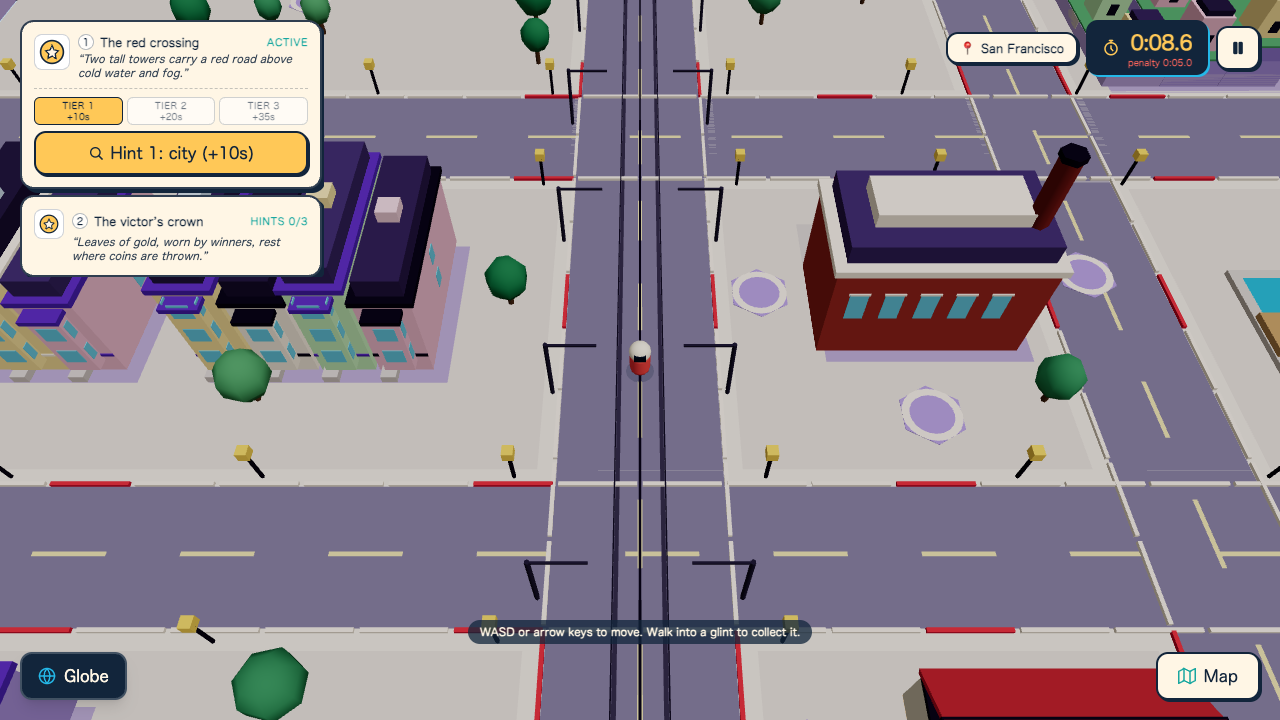
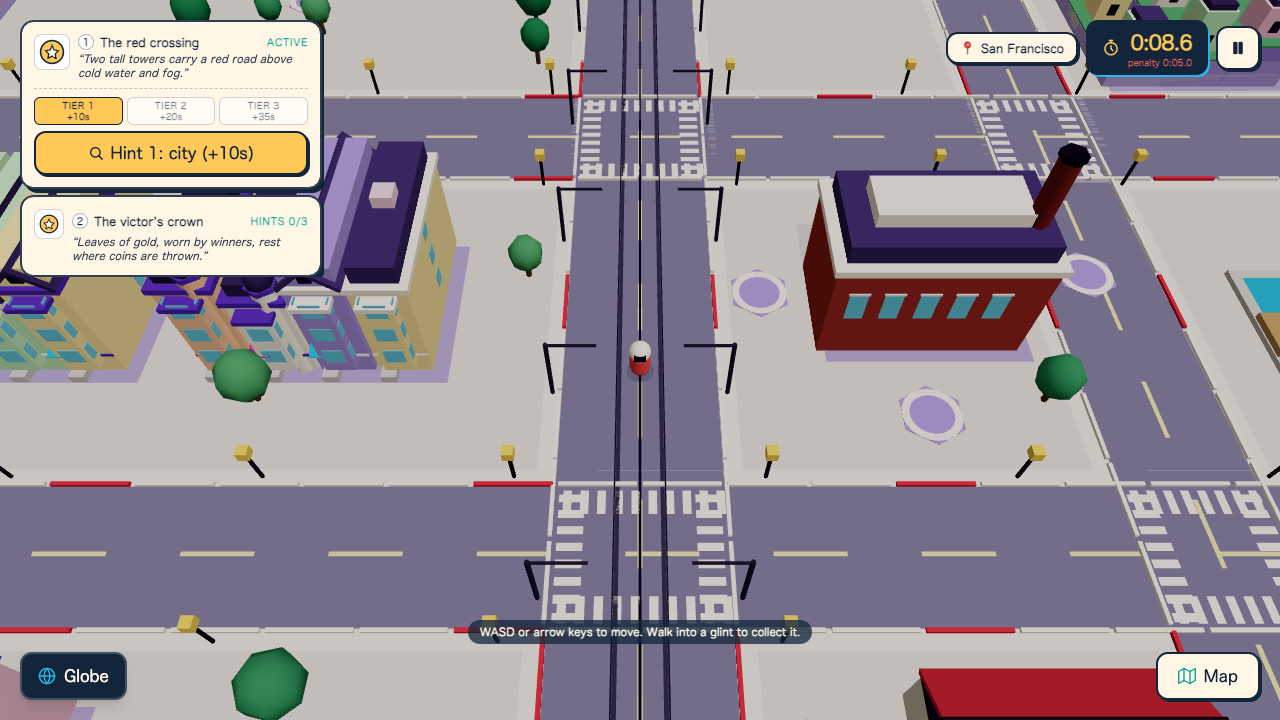
A9: SF polish — E-W Golden Gate in frame, local haze, Victorian variety, crossings

diff --git a/src/cities/san-francisco/SanFranciscoScene.tsx b/src/cities/san-francisco/SanFranciscoScene.tsx
@@ -60,7 +60,10 @@ const CURB_WHITE = CREAM;
 const WATER_TONE = '#35b9dd';
 const WATER_DEEP_TONE = '#2593b8';
 const FOAM_TONE = '#c8f2fb';
-const HAZE_TONE = '#d9cdf2';
+const HAZE_TONE = '#dcd3f0';
+const HAZE_BANDS = ['#cbbfe8', '#c9cdef', '#c3dcf3', '#bfe4f5'] as const;
+const STRAIT_MIN_Z = -62;
+const STRAIT_MAX_Z = -28;
 const HILL_TONES = ['#c7b4ea', '#b6a1e8', '#a48fdc'] as const;
 const HILL_HOUSE_TONES = ['#f8d7e4', '#fff5e9', '#d7e9fb', '#ffe9b0'] as const;
 const SHADOW_TONE = '#b9a8d6';
@@ -282,6 +285,26 @@ function buildStreets(definition: CityDefinition, quality: Quality, batches: Bat
     }
   }
 
+  // Zebra crossings where roads meet.
+  if (quality !== 'low') {
+    for (const a of roads) {
+      if (width(a) < depth(a)) continue;
+      for (const b of roads) {
+        if (width(b) >= depth(b)) continue;
+        for (const edgeZ of [a.minZ, a.maxZ]) {
+          for (let x = b.minX + 0.6; x < b.maxX - 0.4; x += 1.2) {
+            batches.flats.push({ x: x + 0.3, y: 0.032, z: edgeZ + (edgeZ === a.minZ ? 1.2 : -1.2), sx: 0.6, sy: 1.8, sz: 1, rx: FLAT, color: CREAM });
+          }
+        }
+        for (const edgeX of [b.minX, b.maxX]) {
+          for (let z = a.minZ + 0.6; z < a.maxZ - 0.4; z += 1.2) {
+            batches.flats.push({ x: edgeX + (edgeX === b.minX ? 1.2 : -1.2), y: 0.032, z: z + 0.3, sx: 1.8, sy: 0.6, sz: 1, rx: FLAT, color: CREAM });
+          }
+        }
+      }
+    }
+  }
+
   // Cable-car tracks + overhead trolley wires along the main N-S street (the one through spawn).
   const mainStreet = roads.find((road) => depth(road) > width(road) && road.minX <= 0 && road.maxX >= 0);
   if (!mainStreet) return;
@@ -343,22 +366,27 @@ function buildBackground(definition: CityDefinition, rng: Rng, quality: Quality,
   });
 
   // Stepped residential hills west and south of the playable blocks (background only, outside bounds).
+  // The strait (STRAIT_MIN_Z..STRAIT_MAX_Z) stays open water so the Golden Gate can cross it westward.
   const tiers = [
-    { rect: { minX: -FAR, maxX: bounds.minX - 0.5, minZ: -FAR * 0.5, maxZ: FAR }, h: 3 },
-    { rect: { minX: -FAR, maxX: bounds.minX - 14, minZ: -FAR * 0.5 + 10, maxZ: FAR }, h: 7 },
-    { rect: { minX: -FAR, maxX: bounds.minX - 30, minZ: -FAR * 0.5 + 20, maxZ: FAR }, h: 12 },
+    { rect: { minX: -FAR, maxX: bounds.minX - 0.5, minZ: STRAIT_MAX_Z, maxZ: FAR }, h: 3 },
+    { rect: { minX: -FAR, maxX: bounds.minX - 14, minZ: STRAIT_MAX_Z + 8, maxZ: FAR }, h: 7 },
+    { rect: { minX: -FAR, maxX: bounds.minX - 30, minZ: STRAIT_MAX_Z + 18, maxZ: FAR }, h: 12 },
+    { rect: { minX: -FAR, maxX: bounds.minX - 0.5, minZ: -FAR, maxZ: STRAIT_MIN_Z }, h: 4 },
+    { rect: { minX: -FAR, maxX: bounds.minX - 24, minZ: -FAR, maxZ: STRAIT_MIN_Z - 6 }, h: 9 },
+    { rect: { minX: -FAR, maxX: bounds.minX - 50, minZ: -FAR, maxZ: STRAIT_MIN_Z - 14 }, h: 15 },
     { rect: { minX: bounds.minX - 0.5, maxX: bounds.maxX + 0.5, minZ: bounds.maxZ + 0.5, maxZ: FAR }, h: 3 },
     { rect: { minX: bounds.minX - 0.5, maxX: bounds.maxX + 0.5, minZ: bounds.maxZ + 14, maxZ: FAR }, h: 7 },
     { rect: { minX: bounds.minX - 0.5, maxX: bounds.maxX + 0.5, minZ: bounds.maxZ + 32, maxZ: FAR }, h: 12 },
   ];
   tiers.forEach((tier, index) => batches.boxes.push(boxItem(tier.rect, -0.3, tier.h, HILL_TONES[index % 3]!)));
+  batches.flats.push(flatItem({ minX: -FAR, maxX: bounds.minX, minZ: STRAIT_MIN_Z, maxZ: STRAIT_MAX_Z }, -0.3, WATER_TONE));
 
   // Tiny pastel houses climbing the hills, plus stepped streets between them.
   const houseCount = quality === 'low' ? 30 : 90;
   for (let index = 0; index < houseCount; index += 1) {
     const west = rng.next() < 0.55;
     const x = west ? bounds.minX - 3 - rng.next() * 40 : bounds.minX + rng.next() * width(bounds);
-    const z = west ? -60 + rng.next() * 130 : bounds.maxZ + 3 + rng.next() * 42;
+    const z = west ? STRAIT_MAX_Z + 4 + rng.next() * 110 : bounds.maxZ + 3 + rng.next() * 42;
     const tierHeight = west
       ? x < bounds.minX - 30 ? 12 : x < bounds.minX - 14 ? 7 : 3
       : z > bounds.maxZ + 32 ? 12 : z > bounds.maxZ + 14 ? 7 : 3;
@@ -367,101 +395,108 @@ function buildBackground(definition: CityDefinition, rng: Rng, quality: Quality,
     batches.boxes.push({ x, y: tierHeight - 0.3 + h / 2, z, sx: w, sy: h, sz: w, color: rng.pick(HILL_HOUSE_TONES) });
     batches.boxes.push({ x, y: tierHeight - 0.3 + h + 0.35, z, sx: w * 0.8, sy: 0.7, sz: w * 0.8, color: rng.pick(ROOF_TONES) });
   }
-  for (let z = -50; z < 120; z += 24) {
+  for (let z = STRAIT_MAX_Z + 14; z < 120; z += 24) {
     batches.boxes.push({ x: bounds.minX - 22, y: 4, z, sx: 44, sy: 8.5, sz: 3, color: DECK_TONE });
   }
 
-  // Restrained haze band on the horizon so the bay fades out instead of ending hard.
-  batches.boxes.push({ x: 0, y: 6, z: -FAR + 20, sx: FAR * 2.2, sy: 14, sz: 2, color: HAZE_TONE });
-  batches.boxes.push({ x: FAR - 20, y: 6, z: 0, sx: 2, sy: 14, sz: FAR * 2.2, color: HAZE_TONE });
+  // Restrained local haze: opaque bands stepping from lavender toward the sky colour, so the bay,
+  // the strait and the far bridge anchorage fade out without touching the scene's fog settings.
+  HAZE_BANDS.forEach((tone, index) => {
+    const y = 3 + index * 4;
+    batches.boxes.push({ x: 0, y, z: -FAR + 20 + index * 6, sx: FAR * 2.2, sy: 8, sz: 1, color: tone });
+    batches.boxes.push({ x: FAR - 20 - index * 6, y, z: 0, sx: 1, sy: 8, sz: FAR * 2.2, color: tone });
+    batches.boxes.push({ x: -FAR + 25 + index * 6, y, z: centerZ({ minX: 0, maxX: 0, minZ: STRAIT_MIN_Z, maxZ: STRAIT_MAX_Z }), sx: 1, sy: 8, sz: 70, color: tone });
+  });
+  // Low water mist drifting through the strait under the bridge deck.
+  for (let x = bounds.minX - 6; x > -FAR + 40; x -= 22) {
+    batches.boxes.push({ x, y: 1.2, z: STRAIT_MIN_Z + 6 + ((x * 7) % 20 + 20) % 20, sx: 16, sy: 1.6, sz: 5, color: HAZE_TONE });
+  }
 }
 
 // ---------------------------------------------------------------------------
-// Golden Gate Bridge (hero). South tower stands on the approach blocker; the deck and north tower
-// run out over the bay north of the playable bounds (z < -72), where nobody can walk.
+// Golden Gate Bridge (hero). The chase camera pitches ~55 degrees down with a 48 degree FOV, so a
+// tall tower directly ahead leaves the frame: anything at height h is only visible while it is
+// closer than ~(52 - h) * 1.66 units ahead of the player. The bridge therefore runs EAST-WEST along
+// the approach blocker and out over the strait west of the bounds, with squat 22-unit towers, so
+// from anywhere in the bridge district at least one tower and the cables stay on screen.
 // ---------------------------------------------------------------------------
 
-const TOWER_HEIGHT = 46;
-const DECK_Y = 9;
-const DECK_HALF_WIDTH = 5;
-const NORTH_TOWER_Z = -104;
-const DECK_END_Z = -160;
+const TOWER_HEIGHT = 22;
+const DECK_Y = 6;
+const DECK_HALF_DEPTH = 4.5;
+const WEST_TOWER_X = -78;
+const DECK_END_X = -132;
 
 function buildGoldenGate(approach: Blocker, quality: Quality, batches: Batches): void {
-  const cx = centerX(approach);
-  const southTowerZ = centerZ(approach) - 3;
+  const cz = centerZ(approach);
+  const eastTowerX = approach.minX + 12;
 
-  // Approach: concrete plinth covering the whole blocker, toll-plaza kiosks and a ramp to deck height.
+  // Approach plaza: concrete plinth on the blocker, toll kiosks, cypresses; the deck ramps up onto it.
   batches.flats.push(shadowItem(approach));
   batches.boxes.push(boxItem(approach, 0, 1.2, CONCRETE_TONE));
   batches.boxes.push(boxItem(grow(approach, -0.6), 1.2, 0.3, LAVENDER));
-  const rampRect: RectXZ = { minX: cx - DECK_HALF_WIDTH - 1, maxX: cx + DECK_HALF_WIDTH + 1, minZ: approach.minZ, maxZ: approach.maxZ - 1 };
-  batches.boxes.push(boxItem(rampRect, 1.2, DECK_Y - 1.4, DECK_TONE));
-  batches.boxes.push(boxItem(grow(rampRect, 0.3), DECK_Y - 0.5, 0.5, ORANGE));
+  const ramp: RectXZ = { minX: approach.minX, maxX: approach.maxX - 1, minZ: cz - DECK_HALF_DEPTH - 1, maxZ: cz + DECK_HALF_DEPTH + 1 };
+  batches.boxes.push(boxItem(ramp, 1.2, DECK_Y - 1.4, DECK_TONE));
+  batches.boxes.push(boxItem(grow(ramp, 0.3), DECK_Y - 0.5, 0.5, ORANGE));
   for (const side of [-1, 1] as const) {
-    const x = cx + side * (DECK_HALF_WIDTH + 4.5);
-    batches.boxes.push({ x, y: 2.9, z: approach.maxZ - 5, sx: 3, sy: 3.4, sz: 3, color: CREAM });
-    batches.boxes.push({ x, y: 4.9, z: approach.maxZ - 5, sx: 4, sy: 0.6, sz: 4, color: ORANGE });
-    // Cypress trees flanking the plaza.
-    for (const z of [approach.minZ + 4, approach.minZ + 10, approach.maxZ - 12]) {
-      batches.cylinders.push({ x: x + side * 3.5, y: 2.2, z, sx: 0.6, sy: 2, sz: 0.6, color: TRUNK_TONE });
-      batches.spheres.push({ x: x + side * 3.5, y: 4.6, z, sx: 1.4, sy: 2.6, sz: 1.4, color: LEAF_TONES[1] });
+    const z = cz + side * (DECK_HALF_DEPTH + 4.5);
+    batches.boxes.push({ x: approach.maxX - 6, y: 2.9, z, sx: 3, sy: 3.4, sz: 3, color: CREAM });
+    batches.boxes.push({ x: approach.maxX - 6, y: 4.9, z, sx: 4, sy: 0.6, sz: 4, color: ORANGE });
+    for (const x of [approach.minX + 4, approach.maxX - 14, approach.maxX - 2.5]) {
+      batches.cylinders.push({ x, y: 2.2, z: z + side * 3, sx: 0.6, sy: 2, sz: 0.6, color: TRUNK_TONE });
+      batches.spheres.push({ x, y: 4.6, z: z + side * 3, sx: 1.4, sy: 2.6, sz: 1.4, color: LEAF_TONES[1] });
     }
   }
 
-  // Deck.
-  const deckLength = approach.minZ - DECK_END_Z;
-  const deckZ = (approach.minZ + DECK_END_Z) / 2;
-  batches.boxes.push({ x: cx, y: DECK_Y - 0.6, z: deckZ, sx: DECK_HALF_WIDTH * 2 + 1, sy: 1.2, sz: deckLength, color: DECK_TONE });
-  batches.boxes.push({ x: cx, y: DECK_Y - 1.7, z: deckZ, sx: DECK_HALF_WIDTH * 2 - 1, sy: 1.2, sz: deckLength, color: ORANGE_DARK });
+  // Deck over the strait, from the plaza edge west to the far anchorage.
+  const deckLength = approach.minX - DECK_END_X;
+  const deckX = (approach.minX + DECK_END_X) / 2;
+  batches.boxes.push({ x: deckX, y: DECK_Y - 0.6, z: cz, sx: deckLength, sy: 1.2, sz: DECK_HALF_DEPTH * 2 + 1, color: DECK_TONE });
+  batches.boxes.push({ x: deckX, y: DECK_Y - 1.7, z: cz, sx: deckLength, sy: 1.2, sz: DECK_HALF_DEPTH * 2 - 1, color: ORANGE_DARK });
   for (const side of [-1, 1] as const) {
-    batches.boxes.push({ x: cx + side * (DECK_HALF_WIDTH + 0.3), y: DECK_Y + 0.5, z: deckZ, sx: 0.4, sy: 1.0, sz: deckLength, color: ORANGE });
+    batches.boxes.push({ x: deckX, y: DECK_Y + 0.5, z: cz + side * (DECK_HALF_DEPTH + 0.3), sx: deckLength, sy: 1.0, sz: 0.4, color: ORANGE });
   }
   if (quality !== 'low') {
-    for (let z = approach.minZ - 6; z > DECK_END_Z; z -= 12) {
-      batches.flats.push({ x: cx, y: DECK_Y + 0.02, z, sx: 0.4, sy: 6, sz: 1, rx: FLAT, color: ROAD_LINE_TONE });
+    for (let x = approach.minX - 4; x > DECK_END_X; x -= 8) {
+      batches.flats.push({ x, y: DECK_Y + 0.02, z: cz, sx: 4, sy: 0.4, sz: 1, rx: FLAT, color: ROAD_LINE_TONE });
     }
   }
+  // Far anchorage block on the Marin side.
+  batches.boxes.push({ x: DECK_END_X - 4, y: DECK_Y / 2 - 0.3, z: cz, sx: 10, sy: DECK_Y + 0.3, sz: DECK_HALF_DEPTH * 2 + 6, color: CONCRETE_TONE });
 
-  // Towers: two legs joined by portal braces, on a pier block in the water.
-  for (const towerZ of [southTowerZ, NORTH_TOWER_Z]) {
-    const baseY = towerZ === southTowerZ ? 1.2 : -0.3;
-    if (towerZ !== southTowerZ) {
-      batches.boxes.push({ x: cx, y: 1.5, z: towerZ, sx: DECK_HALF_WIDTH * 2 + 8, sy: 4, sz: 12, color: CONCRETE_TONE });
-    }
+  // Towers: two legs (one each side of the deck) joined by portal braces.
+  for (const towerX of [eastTowerX, WEST_TOWER_X]) {
+    const onPlaza = towerX === eastTowerX;
+    const baseY = onPlaza ? 1.2 : -0.3;
+    if (!onPlaza) batches.boxes.push({ x: towerX, y: 1.5, z: cz, sx: 12, sy: 4, sz: DECK_HALF_DEPTH * 2 + 8, color: CONCRETE_TONE });
     for (const side of [-1, 1] as const) {
-      const x = cx + side * (DECK_HALF_WIDTH + 0.6);
-      batches.boxes.push({ x, y: baseY + TOWER_HEIGHT / 2, z: towerZ, sx: 2.6, sy: TOWER_HEIGHT, sz: 3.2, color: ORANGE });
-      batches.boxes.push({ x: x + side * 0.2, y: baseY + TOWER_HEIGHT / 2, z: towerZ, sx: 2.2, sy: TOWER_HEIGHT - 2, sz: 3.6, color: ORANGE_DARK });
-      batches.boxes.push({ x, y: baseY + TOWER_HEIGHT + 0.6, z: towerZ, sx: 3.2, sy: 1.2, sz: 3.8, color: ORANGE });
+      const z = cz + side * (DECK_HALF_DEPTH + 0.6);
+      batches.boxes.push({ x: towerX, y: baseY + TOWER_HEIGHT / 2, z, sx: 3.2, sy: TOWER_HEIGHT, sz: 2.6, color: ORANGE });
+      batches.boxes.push({ x: towerX, y: baseY + TOWER_HEIGHT / 2, z: z + side * 0.2, sx: 3.6, sy: TOWER_HEIGHT - 2, sz: 2.2, color: ORANGE_DARK });
+      batches.boxes.push({ x: towerX, y: baseY + TOWER_HEIGHT + 0.6, z, sx: 3.8, sy: 1.2, sz: 3.2, color: ORANGE });
     }
-    const braceYs = [DECK_Y + 6, DECK_Y + 16, DECK_Y + 26, TOWER_HEIGHT - 2];
-    for (const y of braceYs) {
-      batches.boxes.push({ x: cx, y: baseY + y, z: towerZ, sx: DECK_HALF_WIDTH * 2 + 1, sy: 2.4, sz: 3.4, color: ORANGE });
-      if (quality !== 'low') {
-        batches.boxes.push({ x: cx, y: baseY + y, z: towerZ + 1.75, sx: DECK_HALF_WIDTH * 2 + 1, sy: 1.2, sz: 0.2, color: ORANGE_DARK });
-      }
+    for (const y of [DECK_Y + 4.5, DECK_Y + 10, TOWER_HEIGHT - 1.5]) {
+      batches.boxes.push({ x: towerX, y: baseY + y, z: cz, sx: 3.4, sy: 2.2, sz: DECK_HALF_DEPTH * 2 + 1, color: ORANGE });
+      if (quality !== 'low') batches.boxes.push({ x: towerX + 1.75, y: baseY + y, z: cz, sx: 0.2, sy: 1.1, sz: DECK_HALF_DEPTH * 2 + 1, color: ORANGE_DARK });
     }
-    batches.boxes.push({ x: cx, y: baseY + 3, z: towerZ, sx: DECK_HALF_WIDTH * 2 + 1, sy: 6, sz: 3.4, color: ORANGE });
+    batches.boxes.push({ x: towerX, y: baseY + 2.5, z: cz, sx: 3.4, sy: 5, sz: DECK_HALF_DEPTH * 2 + 1, color: ORANGE });
   }
 
-  // Main cables: catenary from the south anchorage, over both towers, down to the far anchorage.
-  const anchorSouth: [number, number] = [approach.maxZ - 2, DECK_Y];
-  const anchorNorth: [number, number] = [DECK_END_Z + 6, DECK_Y];
-  const topY = TOWER_HEIGHT + 0.2;
-  const spans: { z0: number; y0: number; z1: number; y1: number; sag: number }[] = [
-    { z0: anchorSouth[0], y0: anchorSouth[1], z1: southTowerZ, y1: topY + 1.2, sag: 0 },
-    { z0: southTowerZ, y0: topY + 1.2, z1: NORTH_TOWER_Z, y1: topY - 0.3, sag: 26 },
-    { z0: NORTH_TOWER_Z, y0: topY - 0.3, z1: anchorNorth[0], y1: anchorNorth[1], sag: 0 },
+  // Main cables: from the plaza anchorage over both towers to the Marin anchorage.
+  const topY = TOWER_HEIGHT + 0.4;
+  const spans: { x0: number; y0: number; x1: number; y1: number; sag: number }[] = [
+    { x0: approach.maxX - 3, y0: DECK_Y, x1: eastTowerX, y1: topY + 1.2, sag: 0 },
+    { x0: eastTowerX, y0: topY + 1.2, x1: WEST_TOWER_X, y1: topY - 0.3, sag: 11 },
+    { x0: WEST_TOWER_X, y0: topY - 0.3, x1: DECK_END_X - 4, y1: DECK_Y, sag: 0 },
   ];
   const segments = quality === 'low' ? 6 : 12;
   for (const side of [-1, 1] as const) {
-    const x = cx + side * (DECK_HALF_WIDTH + 0.6);
+    const z = cz + side * (DECK_HALF_DEPTH + 0.6);
     for (const span of spans) {
       const points: Vec3[] = [];
       for (let index = 0; index <= segments; index += 1) {
         const t = index / segments;
-        const z = span.z0 + (span.z1 - span.z0) * t;
+        const x = span.x0 + (span.x1 - span.x0) * t;
         const y = span.y0 + (span.y1 - span.y0) * t - span.sag * 4 * t * (1 - t);
         points.push([x, y, z]);
       }
@@ -469,7 +504,6 @@ function buildGoldenGate(approach: Blocker, quality: Quality, batches: Batches):
         batches.boxes.push(strutItem(points[index]!, points[index + 1]!, 0.55, CABLE_TONE));
       }
       if (quality === 'low' || span.sag === 0) continue;
-      // Vertical hangers.
       for (let index = 1; index < points.length - 1; index += 1) {
         const [px, py, pz] = points[index]!;
         batches.boxes.push({ x: px, y: (py + DECK_Y) / 2, z: pz, sx: 0.16, sy: py - DECK_Y, sz: 0.16, color: CABLE_TONE });
@@ -501,8 +535,39 @@ function buildVictorianRow(block: Blocker, rng: Rng, quality: Quality, batches: 
     batches.boxes.push(boxItem(body, 0, height, pastel));
     // Cornice + roof cap (highlighted top face).
     batches.boxes.push(boxItem(grow(body, 0.25), height, 0.5, trim));
-    batches.boxes.push(boxItem(grow(body, -0.4), height + 0.5, 1.6, roof));
-    batches.boxes.push({ x: centerX(body), y: height + 2.6, z: centerZ(body), sx: 1.6, sy: 1.0, sz: 1.6, color: rng.pick(HILL_HOUSE_TONES) });
+    const style = rng.int(3);
+    if (style === 0) {
+      batches.boxes.push(boxItem(grow(body, -0.4), height + 0.5, 1.6, roof));
+      batches.boxes.push({ x: centerX(body), y: height + 2.6, z: centerZ(body), sx: 1.6, sy: 1.0, sz: 1.6, color: rng.pick(HILL_HOUSE_TONES) });
+    } else if (style === 1) {
+      // Gabled roof: two slanted slabs meeting on a ridge that runs along Z (gable faces the street).
+      const half = width(body) / 2;
+      const slope = 0.7;
+      const rise = half * Math.tan(slope);
+      for (const side of [-1, 1] as const) {
+        batches.boxes.push({
+          x: centerX(body) + (side * half) / 2,
+          y: height + 0.5 + rise / 2,
+          z: centerZ(body),
+          sx: half / Math.cos(slope) + 0.4,
+          sy: 0.35,
+          sz: depth(body) + 0.5,
+          rz: -side * slope,
+          color: roof,
+        });
+      }
+      batches.boxes.push({ x: centerX(body), y: height + 0.5 + rise / 2, z: centerZ(body), sx: width(body) - 0.3, sy: rise, sz: depth(body) - 0.3, color: pastel });
+      batches.boxes.push({ x: centerX(body), y: height + 0.5 + rise * 0.55, z: body.maxZ + 0.02, sx: 0.9, sy: 0.9, sz: 0.12, color: WINDOW_TONE });
+    } else {
+      // Corner turret with a domed cap, plus a low roof behind it.
+      batches.boxes.push(boxItem(grow(body, -0.4), height + 0.5, 1.2, roof));
+      const tx = body.maxX - 1.1;
+      const tz = body.maxZ - 0.6;
+      batches.cylinders.push({ x: tx, y: (height + 1.4) / 2, z: tz, sx: 2.0, sy: height + 1.4, sz: 2.0, color: pastel });
+      batches.cylinders.push({ x: tx, y: height + 1.6, z: tz, sx: 2.4, sy: 0.4, sz: 2.4, color: trim });
+      batches.spheres.push({ x: tx, y: height + 2.2, z: tz, sx: 1.05, sy: 1.3, sz: 1.05, color: roof });
+      batches.boxes.push({ x: tx, y: height + 3.9, z: tz, sx: 0.15, sy: 1.2, sz: 0.15, color: INK });
+    }
 
     // Bay window jutting out of the +Z face (the one the chase camera sees), two storeys tall.
     const bayWidth = Math.min(2.6, width(body) * 0.55);
@@ -513,6 +578,9 @@ function buildVictorianRow(block: Blocker, rng: Rng, quality: Quality, batches: 
     batches.boxes.push({ x: body.minX + 1.0, y: 0.35, z: body.maxZ + 0.6, sx: 1.2, sy: 0.7, sz: 1.2, color: STEP_TONE });
     batches.boxes.push({ x: body.minX + 1.0, y: 1.9, z: body.maxZ + 0.02, sx: 1.0, sy: 2.2, sz: 0.1, color: WINDOW_TONE });
     if (quality === 'low') continue;
+    if (rng.next() < 0.5) {
+      batches.boxes.push({ x: body.minX + 1.0, y: 3.25, z: body.maxZ + 0.55, sx: 1.6, sy: 0.12, sz: 1.1, rx: 0.35, color: rng.next() < 0.5 ? HOT_PINK : CYAN });
+    }
     for (let y = 2.4; y < height - 1.4; y += 2.6) {
       batches.boxes.push({ x: bayX, y: y + 0.8, z: body.maxZ + 1.02, sx: bayWidth - 0.8, sy: 1.4, sz: 0.08, color: GLASS_TONE });
       batches.boxes.push({ x: bayX - bayWidth / 2 - 0.02, y: y + 0.8, z: body.maxZ + 0.5, sx: 0.08, sy: 1.4, sz: 0.6, color: GLASS_TONE });
@@ -713,6 +781,9 @@ const FOAM_BARS: readonly InstanceItem[] = [
   { x: 100, y: -0.2, z: -20, sx: 20, sy: 0.5, sz: 1, rx: FLAT, color: FOAM_TONE },
   { x: 120, y: -0.2, z: 40, sx: 24, sy: 0.5, sz: 1, rx: FLAT, color: FOAM_TONE },
   { x: -10, y: -0.2, z: -160, sx: 30, sy: 0.5, sz: 1, rx: FLAT, color: FOAM_TONE },
+  { x: -95, y: -0.2, z: -52, sx: 14, sy: 0.5, sz: 1, rx: FLAT, color: FOAM_TONE },
+  { x: -118, y: -0.2, z: -36, sx: 18, sy: 0.5, sz: 1, rx: FLAT, color: FOAM_TONE },
+  { x: -84, y: -0.2, z: -32, sx: 10, sy: 0.5, sz: 1, rx: FLAT, color: FOAM_TONE },
 ];
 
 function BayShimmer() {

diff --git a/docs/status/A9.md b/docs/status/A9.md
@@ -22,3 +22,16 @@ Owner paths: `src/cities/san-francisco/`, `docs/status/A9.md`, `docs/status/a9-s
   bridge district; towers read mostly as bases from street level.
 - No real fog (scene fog is A0's SceneHost); haze is a flat horizon band.
 - Definition (sockets, districts, blockers) unchanged.
+
+## Polish pass 2 (branch devin/1790435310-a9-sf-polish)
+
+- Golden Gate re-oriented east-west along the approach blocker and out over an open strait (z -62..-28)
+  west of the bounds, with squat 22-unit towers so at least one tower + cables are in frame from
+  anywhere in the bridge district under the fixed 55-degree chase camera (see 03-bridge-close / 03b-strait).
+- Local haze: layered opaque lavender-to-sky bands plus low mist bars over the strait; no SceneHost change.
+- Victorian rows: three roof styles (cornice, gable, corner turret + dome), striped door awnings.
+- Zebra crossings at every road intersection; strait foam bars join the animated BayShimmer group.
+- Sockets: BFS on a 1-unit grid from spawn against definition blockers (0.9 radius) reaches all nine;
+  none sit inside a blocker. definition.ts unchanged.
+- Known issues: deck passes ~5 units above the walkable strip x -72..-56 (no collision, purely visual);
+  haze is opaque geometry, so it hard-edges against the sky at extreme camera positions.
